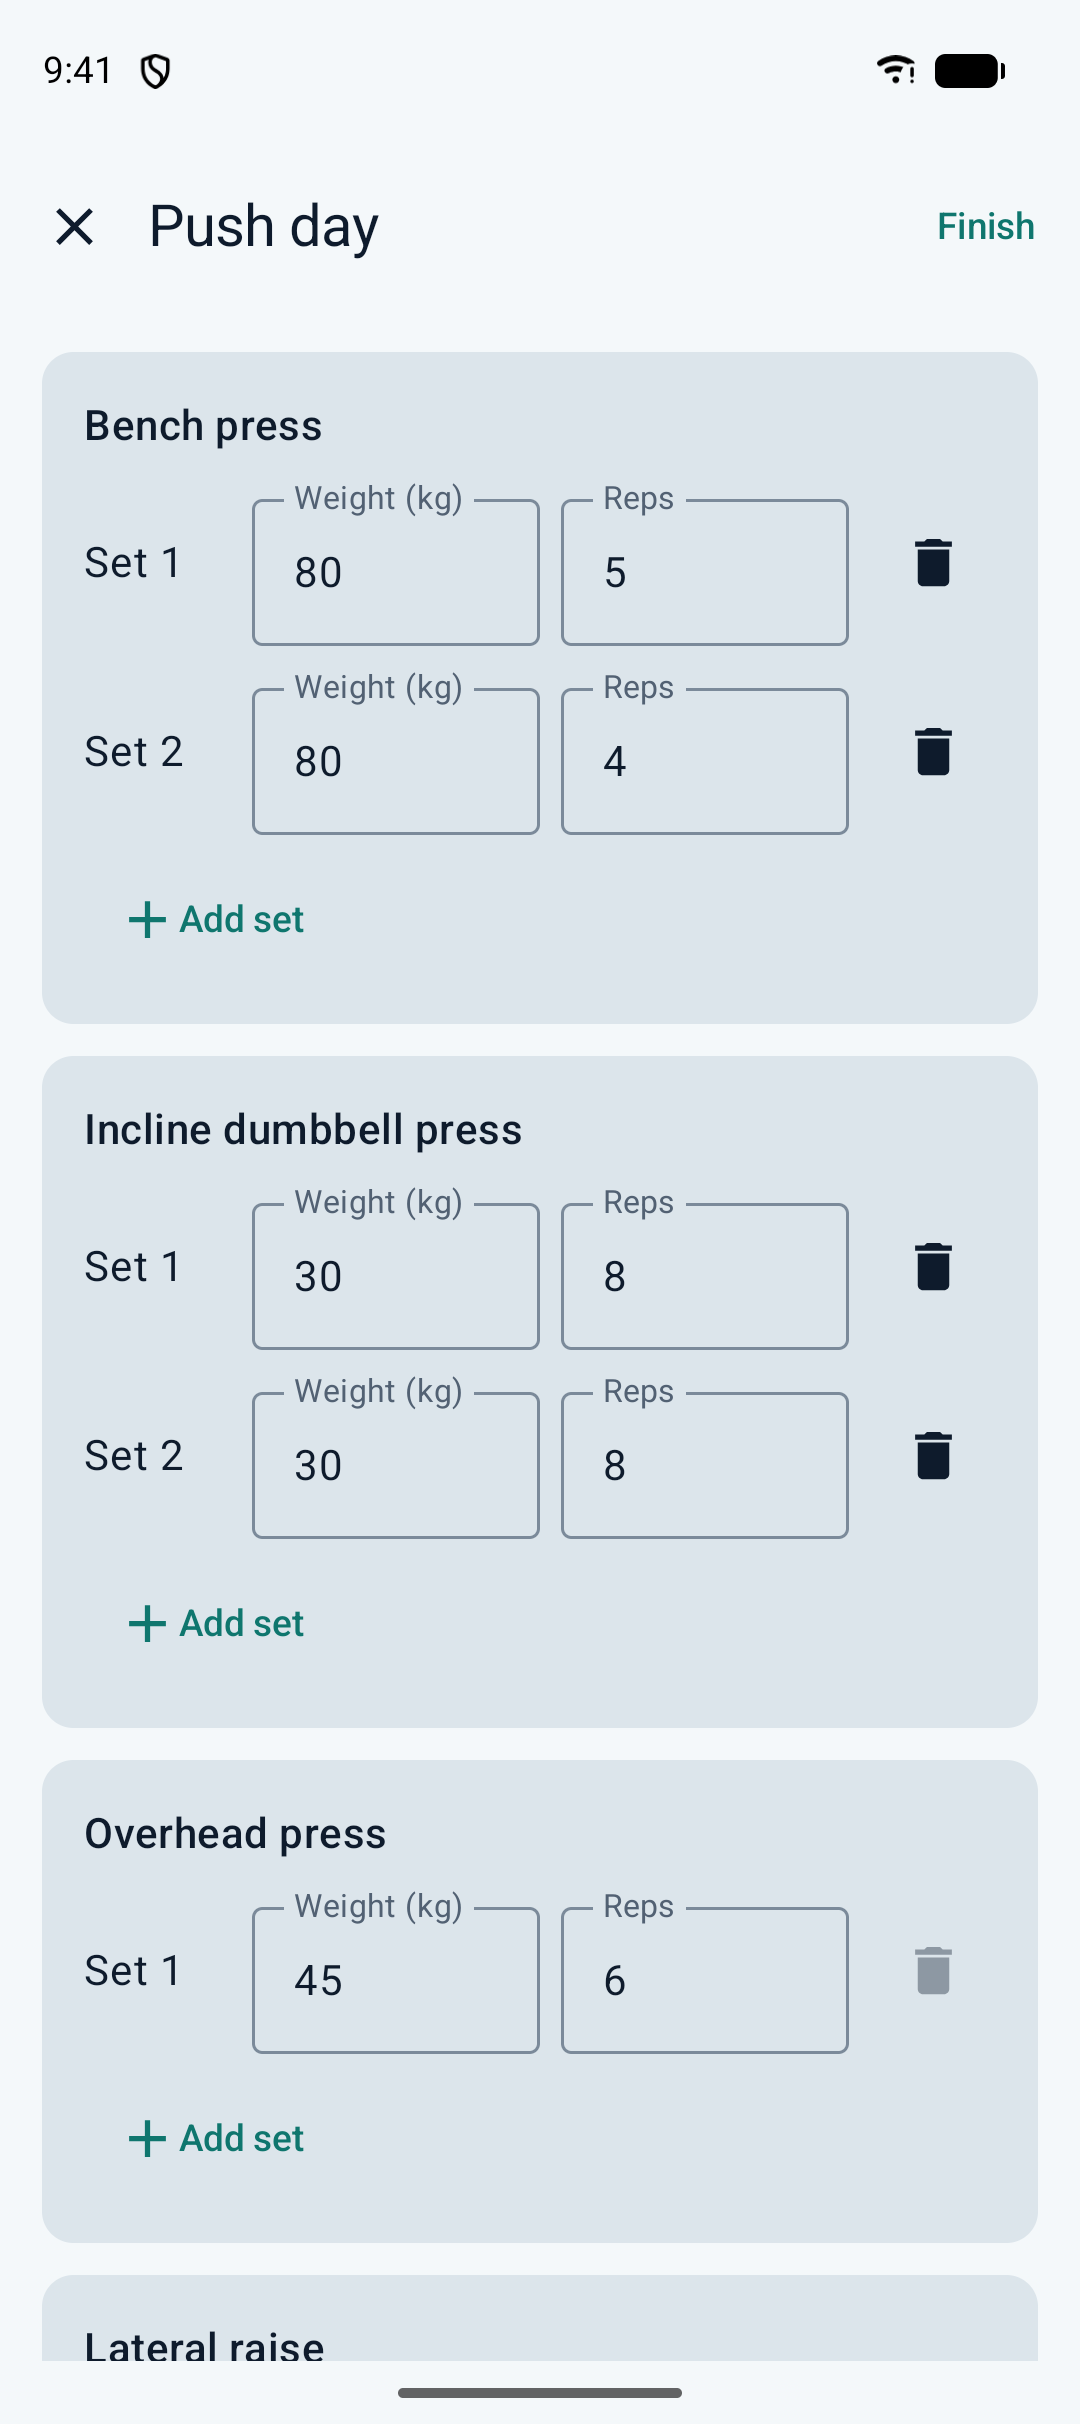
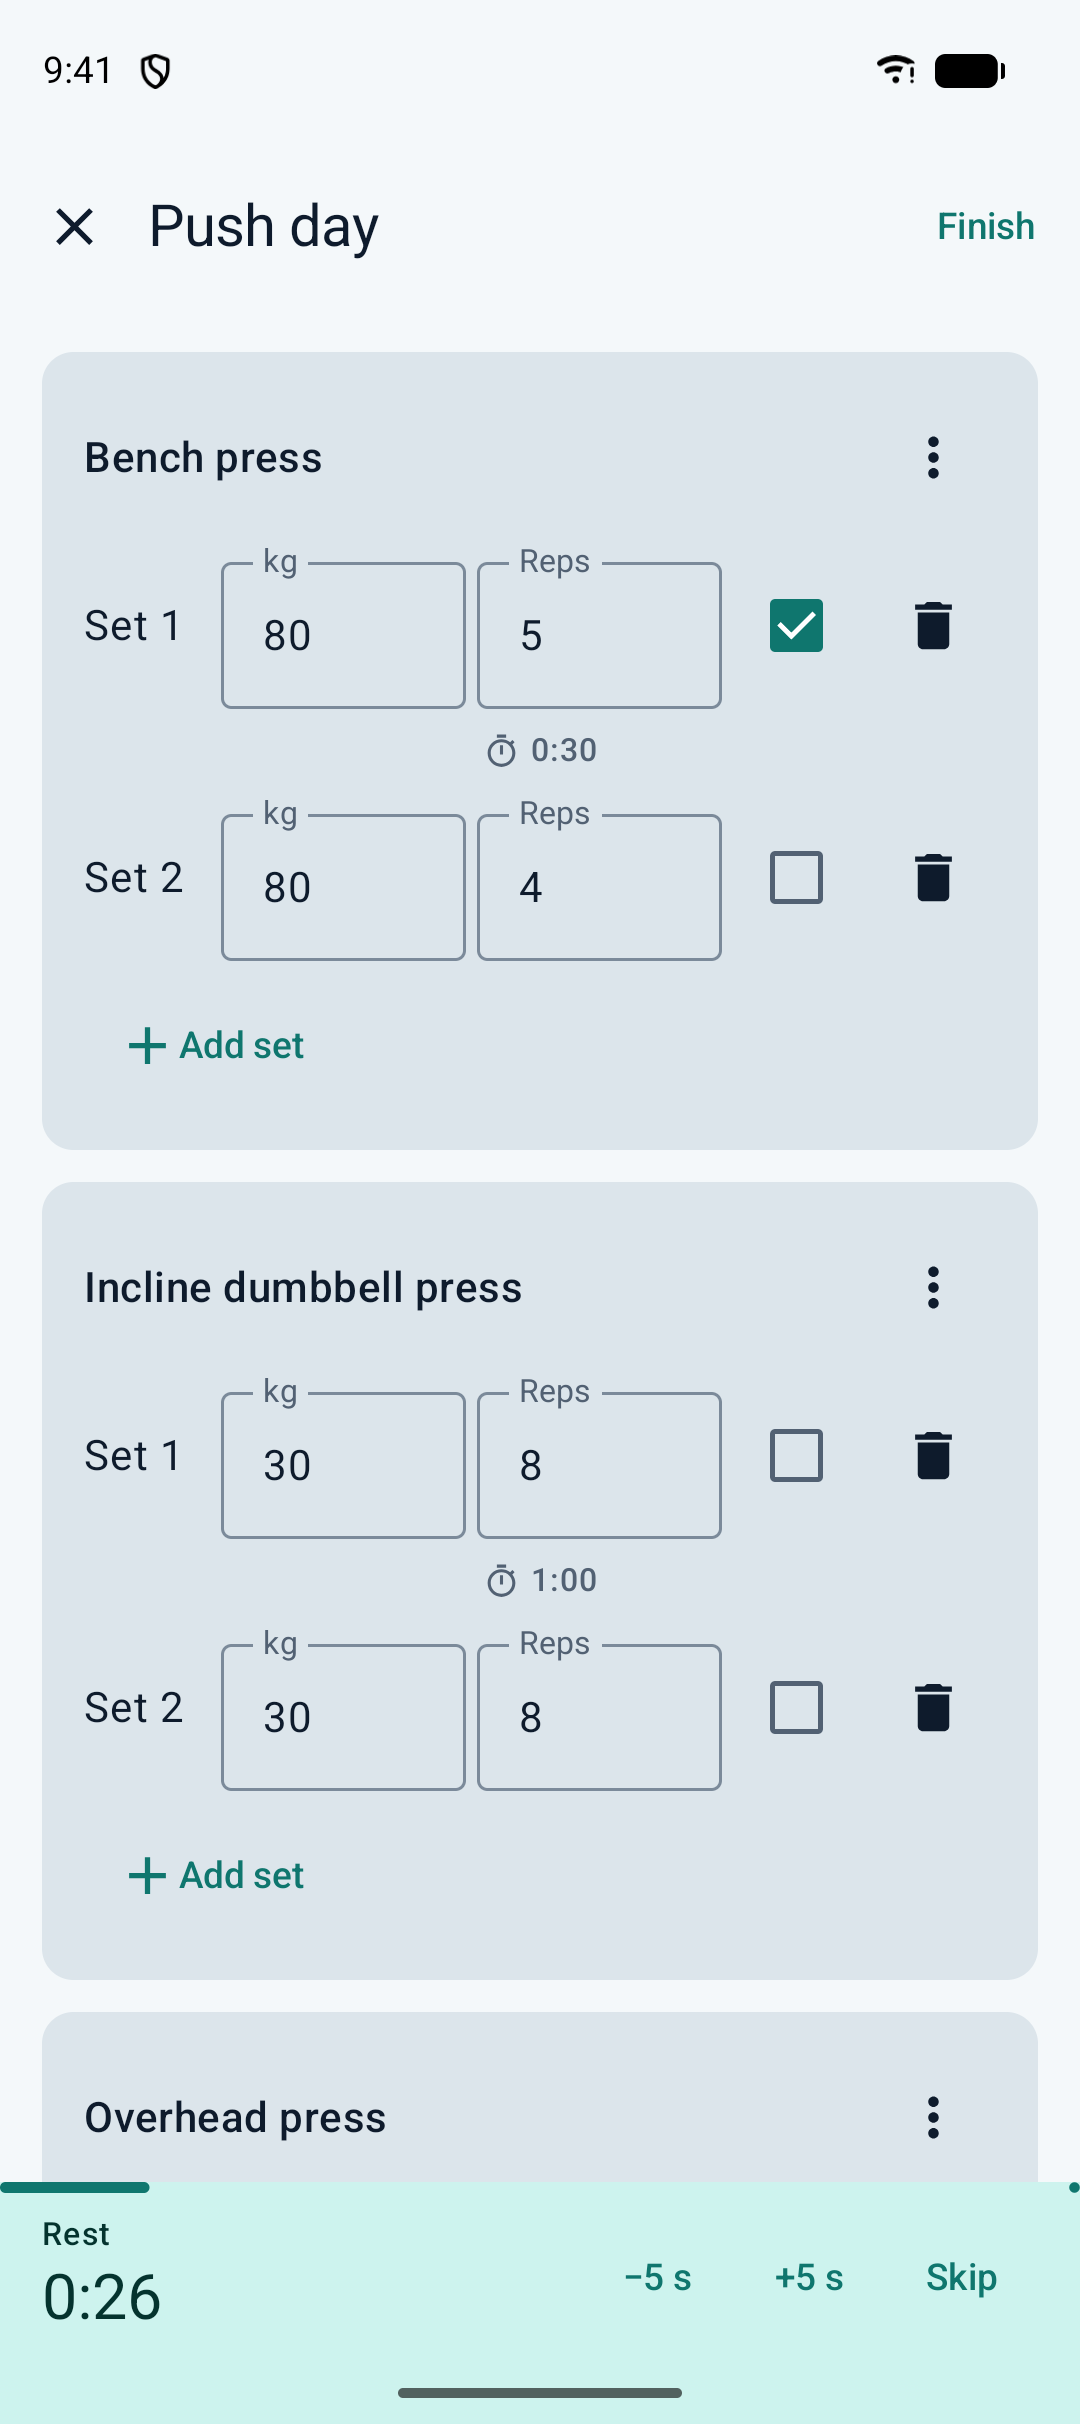
Update the README for the rest timer
New session screenshot with the countdown bar, and the feature list and
roadmap reflect the rest timer, the progress charts and the search.

Claude-Session: https://claude.ai/code/session_017HXKoSbM4rq7wd3PVDRGnb

diff --git a/README.md b/README.md
@@ -14,7 +14,7 @@ An Android app for logging gym workouts (predefined and custom routines). It is 
   <img src="docs/screenshots/progress.png" width="19%" alt="Progress chart with metric selector">
 </p>
 
-Exercises, routines, a workout in progress, history and progress charts (the data shown is sample data).
+Exercises, routines, a workout in progress (with the rest countdown), history and progress charts. The data shown is sample data.
 
 ## Stack
 
@@ -36,8 +36,8 @@ core/
   testing                shared fakes and test rules
 feature/
   exercises              exercise catalog filtered by muscle group and searchable by name, ignoring case and accents (implemented)
-  routines               create, edit, reorder and delete custom routines (implemented)
-  session                log sets, reps and weight for a routine, built with MVI; the workout in progress is saved as a draft in Room and resumes after the app is closed (implemented)
+  routines               create, edit, reorder and delete custom routines, with a rest time per exercise picked on a wheel (implemented)
+  session                log sets, reps and weight for a routine, built with MVI; ticking a set starts the exercise's rest countdown (adjustable, with a buzz when it ends); the workout in progress is saved as a draft in Room and resumes after the app is closed (implemented)
   history                finished workouts, most recent first, with duration and volume (implemented)
   progress               per-exercise Canvas line chart of max weight, estimated 1RM, volume or reps with date ranges, opened from Exercises or History (implemented)
 build-logic/convention   convention plugins (repzi.android.*, repzi.jvm.library)
@@ -54,7 +54,7 @@ Allowed dependencies: `feature` → `core:domain` + `core:ui`; `core:data` → `
 ## Roadmap
 
 - **Level 1 (MVP):** exercise library, custom routines, workout session logging (sets, reps, weight), history.
-- **Level 2:** predefined routines, rest timer, progress charts, search.
+- **Level 2:** predefined routines (rest timer, progress charts and search are done).
 - **Level 3:** remote catalog with sync, WorkManager, notifications, widget (Glance).
 - **Later:** Baseline Profiles and Macrobenchmark, screenshot tests, migrating `core:domain` and `core:data` to KMP.
 
